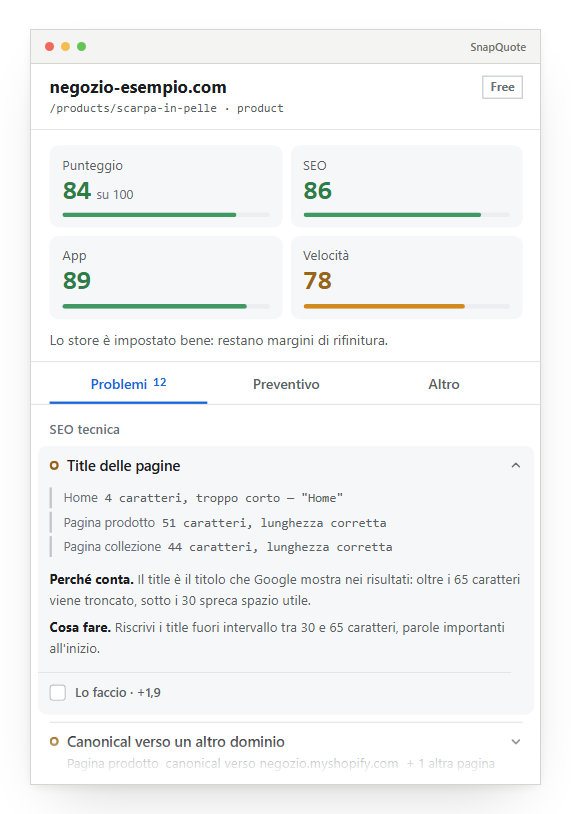
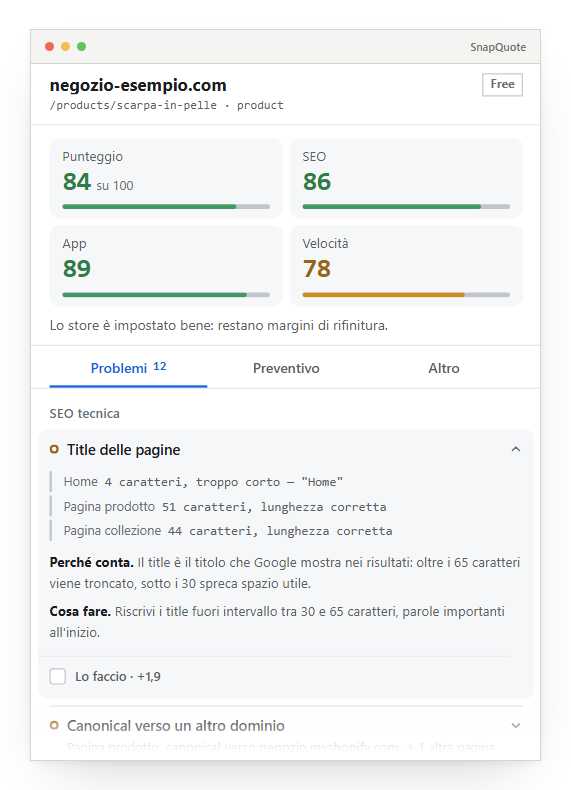
Schermate a 600 e misure corrette nel markup
Rigenerate dopo il passaggio della cornice da 620 a 600: le immagini sono
790 pixel invece di 814, e vetrina.py ha riscritto da se' width e height
dentro index.html.

diff --git a/index.html b/index.html
@@ -788,7 +788,7 @@
 
     <figure class="schermata eroe-immagine">
       <picture>
-        <img src="immagini/popup-preventivo.png" width="571" height="814"
+        <img src="immagini/popup-preventivo.png" width="571" height="790"
              alt="Il popup dell&rsquo;estensione: quattro interventi spuntati e sotto il conto, 8,75 ore per 90 euro l&rsquo;ora, 788 euro, con il bottone per copiare il preventivo.">
       </picture>
       <figcaption>Quattro interventi spuntati, e sotto il conto: 8,75&nbsp;h alla tua tariffa. Il bottone lo copia gi&agrave; scritto.</figcaption>
@@ -856,7 +856,7 @@
 
     <figure class="schermata">
       <picture>
-        <img src="immagini/popup-rilievi.png" width="571" height="814" loading="lazy"
+        <img src="immagini/popup-rilievi.png" width="571" height="790" loading="lazy"
              alt="La scheda Problemi del popup: il punteggio 84 su 100 con la barra, i tre voti per area e l'elenco dei rilievi, il primo aperto con la prova misurata e il rimedio.">
       </picture>
       <figcaption>Ogni rilievo porta <strong>il dato misurato</strong> su quella pagina, perch&eacute; conta e cosa fare. Niente voti senza una prova sotto.</figcaption>
@@ -880,7 +880,7 @@
 
         <figure class="schermata">
           <picture>
-            <img src="immagini/popup-registro.png" width="571" height="814" loading="lazy"
+            <img src="immagini/popup-registro.png" width="571" height="790" loading="lazy"
                  alt="Il registro dei preventivi: quattro clienti con il prezzo accanto, segnati come fatto, mandato, vinto e perso, e sopra il totale di 4.613 euro.">
           </picture>
           <figcaption>Quattro preventivi, 4.613&nbsp;&euro;: due ancora aperti, uno vinto, uno perso.</figcaption>
@@ -903,7 +903,7 @@
 
         <figure class="schermata">
           <picture>
-            <img src="immagini/popup-pagine.png" width="571" height="814" loading="lazy"
+            <img src="immagini/popup-pagine.png" width="571" height="790" loading="lazy"
                  alt="La lista di lavoro del popup: pagina collezione, pagina prodotto e home, ognuna col proprio difetto scritto sotto e l&rsquo;indirizzo a destra.">
           </picture>
           <figcaption>Una scheda per pagina, con l&rsquo;indirizzo e il difetto scritto accanto.</figcaption>
